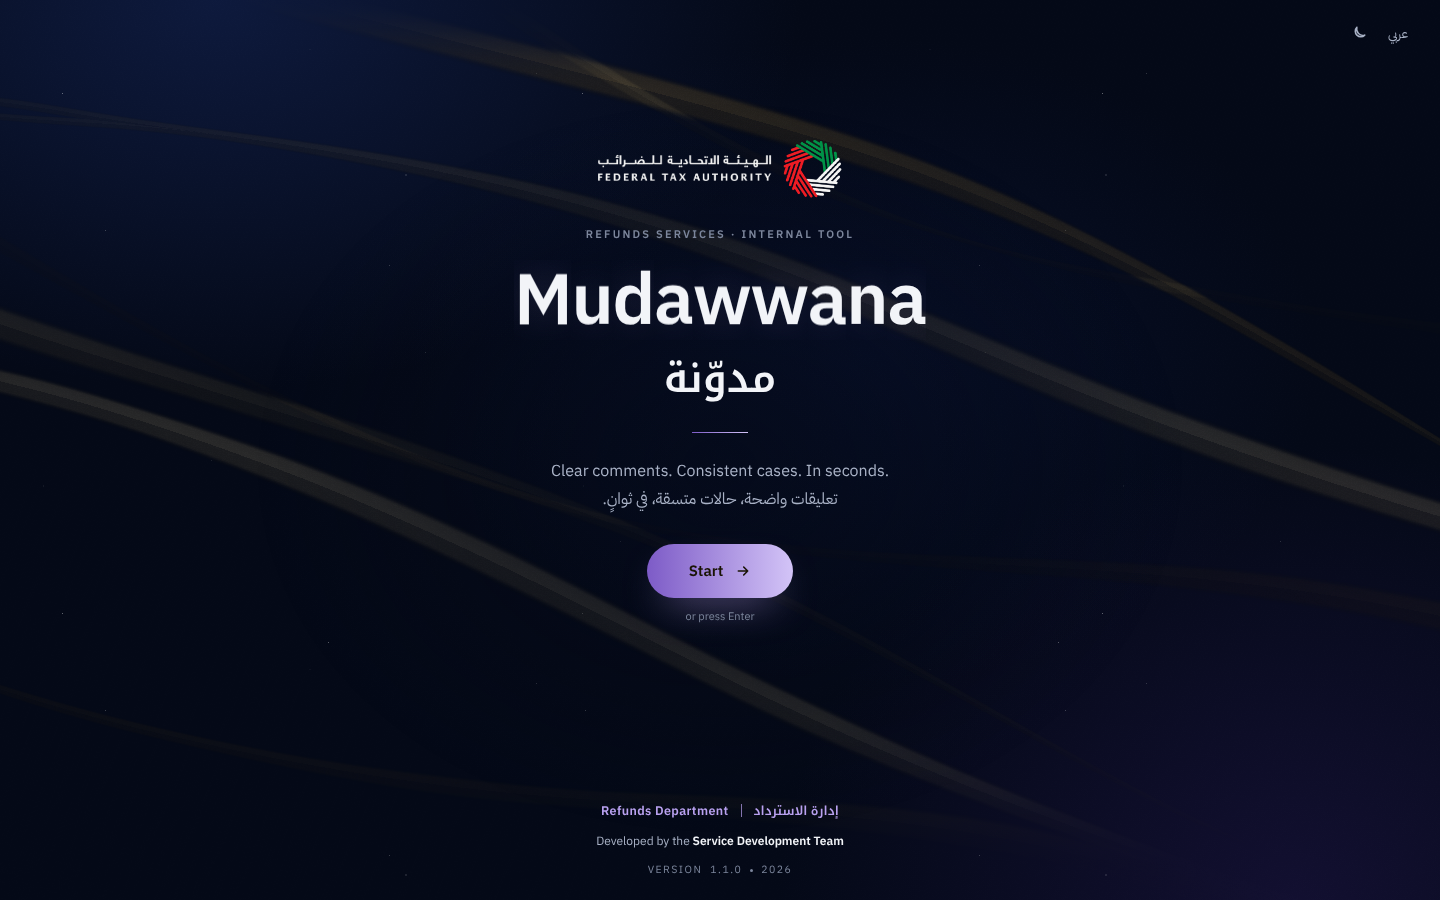
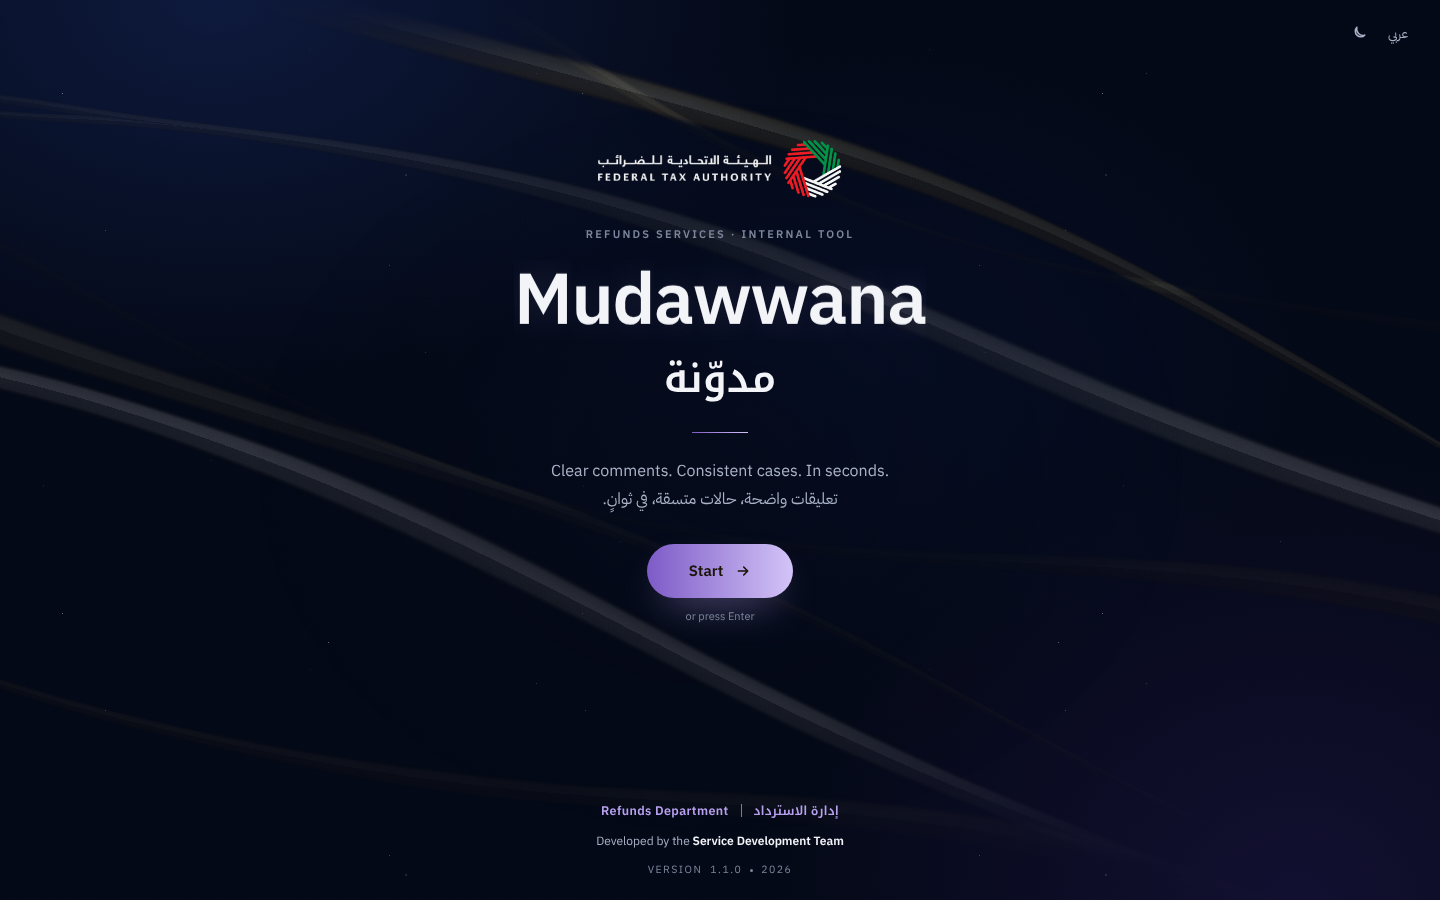
Dark-mode veins: holographic gold and silver sheen
Threads alternate gold, silver and champagne cores with a bright lit edge
and a moving specular glint, matching the light-mode sheen. Light mode
unchanged.

Claude-Session: https://claude.ai/code/session_011QsqW6eiD4cEJGdfqJU7Yn

diff --git a/Mudawwana-Deregistration.html b/Mudawwana-Deregistration.html
@@ -7483,8 +7483,10 @@ void main(){
     float d=abs(q.y-y); float body=1.0-smoothstep(w*0.55,w,d);
     float sh=sqrt(max(0.,1.0-pow(d/max(w,1e-4),2.))); float light=mix(1.0,0.55+0.45*sh*(0.6+0.4*sign(q.y-y)),mix(0.5,1.0,DARK));
     float a=body*(0.11+0.07*sin(q.x*0.9+T*0.02+ph))*mix(1.6,2.4,DARK)*(1.0-CONV*0.9);
-    vec3 dk=(i==0||i==3||i==5)?vec3(0.87,0.70,0.34):(i==1||i==4)?vec3(0.82,0.76,0.60):vec3(0.93,0.84,0.58);
-    vec3 lc=mix(pal[i],hi[i],sh*(0.65+0.35*sign(q.y-y))); vec3 c=mix(lc,dk,DARK)*light;
+    vec3 dk=(i==0||i==3||i==5)?vec3(0.84,0.64,0.26):(i==1||i==4)?vec3(0.70,0.74,0.82):vec3(0.90,0.80,0.52);
+    vec3 dh=(i==0||i==3||i==5)?vec3(1.0,0.92,0.66):(i==1||i==4)?vec3(0.97,0.98,1.0):vec3(1.0,0.96,0.82);
+    float edge=sh*(0.65+0.35*sign(q.y-y)); float spec=pow(sh,6.0)*(0.5+0.5*sin(q.x*7.0+T*0.06+ph));
+    vec3 lc=mix(pal[i],hi[i],edge); vec3 dc=mix(dk,dh,edge*0.8+spec*0.6); vec3 c=mix(lc,dc,DARK)*light;
     col=col*(1.0-a)+c*a; acc=acc+a*(1.0-acc);
   }
   float g=(hash(gl_FragCoord.xy+fract(T))-0.5)*0.03; float vig=smoothstep(1.3,0.35,length(uv-0.5))*smoothstep(0.03,0.24,uv.y)*smoothstep(1.0,0.9,uv.y);

diff --git a/Mudawwana-Refunds.html b/Mudawwana-Refunds.html
@@ -8461,8 +8461,10 @@ void main(){
     float d=abs(q.y-y); float body=1.0-smoothstep(w*0.55,w,d);
     float sh=sqrt(max(0.,1.0-pow(d/max(w,1e-4),2.))); float light=mix(1.0,0.55+0.45*sh*(0.6+0.4*sign(q.y-y)),mix(0.5,1.0,DARK));
     float a=body*(0.11+0.07*sin(q.x*0.9+T*0.02+ph))*mix(1.6,2.4,DARK)*(1.0-CONV*0.9);
-    vec3 dk=(i==0||i==3||i==5)?vec3(0.87,0.70,0.34):(i==1||i==4)?vec3(0.82,0.76,0.60):vec3(0.93,0.84,0.58);
-    vec3 lc=mix(pal[i],hi[i],sh*(0.65+0.35*sign(q.y-y))); vec3 c=mix(lc,dk,DARK)*light;
+    vec3 dk=(i==0||i==3||i==5)?vec3(0.84,0.64,0.26):(i==1||i==4)?vec3(0.70,0.74,0.82):vec3(0.90,0.80,0.52);
+    vec3 dh=(i==0||i==3||i==5)?vec3(1.0,0.92,0.66):(i==1||i==4)?vec3(0.97,0.98,1.0):vec3(1.0,0.96,0.82);
+    float edge=sh*(0.65+0.35*sign(q.y-y)); float spec=pow(sh,6.0)*(0.5+0.5*sin(q.x*7.0+T*0.06+ph));
+    vec3 lc=mix(pal[i],hi[i],edge); vec3 dc=mix(dk,dh,edge*0.8+spec*0.6); vec3 c=mix(lc,dc,DARK)*light;
     col=col*(1.0-a)+c*a; acc=acc+a*(1.0-acc);
   }
   float g=(hash(gl_FragCoord.xy+fract(T))-0.5)*0.03; float vig=smoothstep(1.3,0.35,length(uv-0.5))*smoothstep(0.03,0.24,uv.y)*smoothstep(1.0,0.9,uv.y);

diff --git a/Mudawwana-TaxpayerServices.html b/Mudawwana-TaxpayerServices.html
@@ -4175,8 +4175,10 @@ void main(){
     float d=abs(q.y-y); float body=1.0-smoothstep(w*0.55,w,d);
     float sh=sqrt(max(0.,1.0-pow(d/max(w,1e-4),2.))); float light=mix(1.0,0.55+0.45*sh*(0.6+0.4*sign(q.y-y)),mix(0.5,1.0,DARK));
     float a=body*(0.11+0.07*sin(q.x*0.9+T*0.02+ph))*mix(1.6,2.4,DARK)*(1.0-CONV*0.9);
-    vec3 dk=(i==0||i==3||i==5)?vec3(0.87,0.70,0.34):(i==1||i==4)?vec3(0.82,0.76,0.60):vec3(0.93,0.84,0.58);
-    vec3 lc=mix(pal[i],hi[i],sh*(0.65+0.35*sign(q.y-y))); vec3 c=mix(lc,dk,DARK)*light;
+    vec3 dk=(i==0||i==3||i==5)?vec3(0.84,0.64,0.26):(i==1||i==4)?vec3(0.70,0.74,0.82):vec3(0.90,0.80,0.52);
+    vec3 dh=(i==0||i==3||i==5)?vec3(1.0,0.92,0.66):(i==1||i==4)?vec3(0.97,0.98,1.0):vec3(1.0,0.96,0.82);
+    float edge=sh*(0.65+0.35*sign(q.y-y)); float spec=pow(sh,6.0)*(0.5+0.5*sin(q.x*7.0+T*0.06+ph));
+    vec3 lc=mix(pal[i],hi[i],edge); vec3 dc=mix(dk,dh,edge*0.8+spec*0.6); vec3 c=mix(lc,dc,DARK)*light;
     col=col*(1.0-a)+c*a; acc=acc+a*(1.0-acc);
   }
   float g=(hash(gl_FragCoord.xy+fract(T))-0.5)*0.03; float vig=smoothstep(1.3,0.35,length(uv-0.5))*smoothstep(0.03,0.24,uv.y)*smoothstep(1.0,0.9,uv.y);

diff --git a/Mudawwana.html b/Mudawwana.html
@@ -5482,8 +5482,10 @@ void main(){
     float d=abs(q.y-y); float body=1.0-smoothstep(w*0.55,w,d);
     float sh=sqrt(max(0.,1.0-pow(d/max(w,1e-4),2.))); float light=mix(1.0,0.55+0.45*sh*(0.6+0.4*sign(q.y-y)),mix(0.5,1.0,DARK));
     float a=body*(0.11+0.07*sin(q.x*0.9+T*0.02+ph))*mix(1.6,2.4,DARK)*(1.0-CONV*0.9);
-    vec3 dk=(i==0||i==3||i==5)?vec3(0.87,0.70,0.34):(i==1||i==4)?vec3(0.82,0.76,0.60):vec3(0.93,0.84,0.58);
-    vec3 lc=mix(pal[i],hi[i],sh*(0.65+0.35*sign(q.y-y))); vec3 c=mix(lc,dk,DARK)*light;
+    vec3 dk=(i==0||i==3||i==5)?vec3(0.84,0.64,0.26):(i==1||i==4)?vec3(0.70,0.74,0.82):vec3(0.90,0.80,0.52);
+    vec3 dh=(i==0||i==3||i==5)?vec3(1.0,0.92,0.66):(i==1||i==4)?vec3(0.97,0.98,1.0):vec3(1.0,0.96,0.82);
+    float edge=sh*(0.65+0.35*sign(q.y-y)); float spec=pow(sh,6.0)*(0.5+0.5*sin(q.x*7.0+T*0.06+ph));
+    vec3 lc=mix(pal[i],hi[i],edge); vec3 dc=mix(dk,dh,edge*0.8+spec*0.6); vec3 c=mix(lc,dc,DARK)*light;
     col=col*(1.0-a)+c*a; acc=acc+a*(1.0-acc);
   }
   float g=(hash(gl_FragCoord.xy+fract(T))-0.5)*0.03; float vig=smoothstep(1.3,0.35,length(uv-0.5))*smoothstep(0.03,0.24,uv.y)*smoothstep(1.0,0.9,uv.y);
